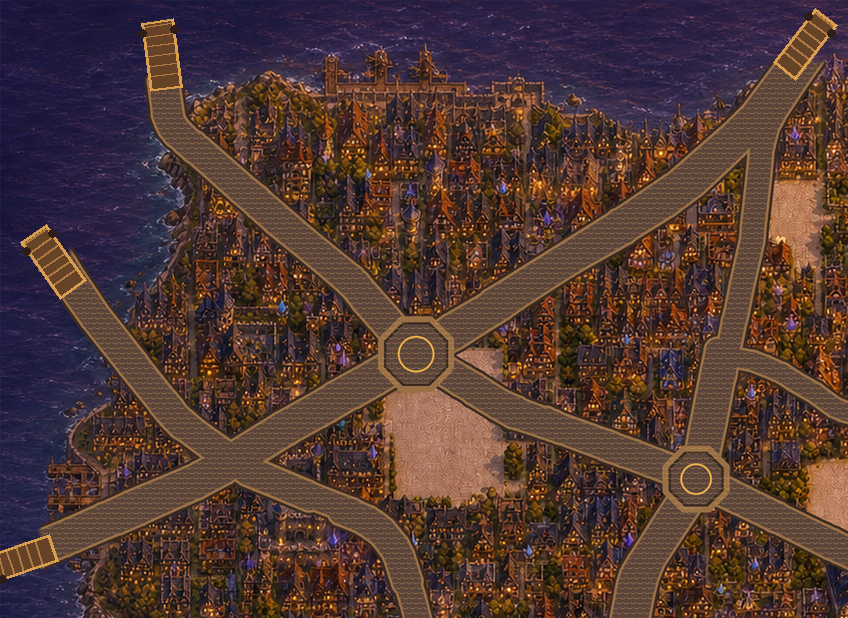
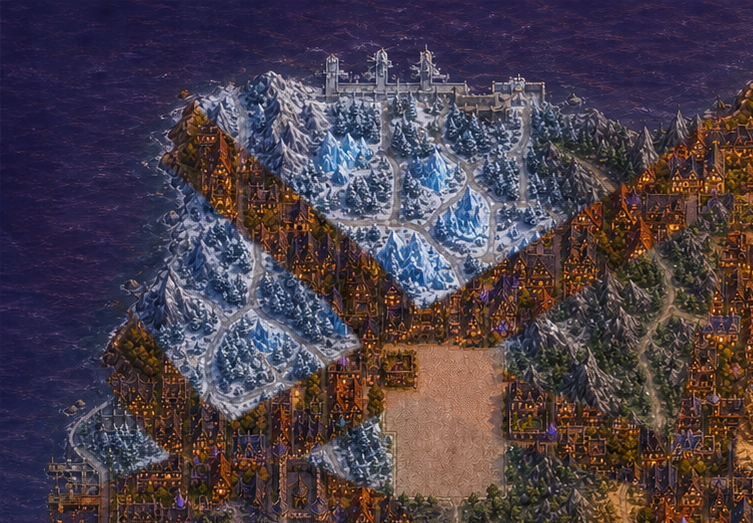
feat: expand past-world biomes and encounters

diff --git a/v2-past-story.js b/v2-past-story.js
@@ -150,8 +150,9 @@
       onComplete: 'crossroads-mission-start',
       lines: Object.freeze([
         Object.freeze({ speaker: 'アルディオン王', text: '見張り台で見つかった方位紋は、四つの街道が交わる交易都市クアドラの紋章でもある。' }),
-        Object.freeze({ speaker: 'アルディオン王', text: 'この数日、六本木の交差路にあたるあの街から、荷馬車も伝令も来なくなった。交通の要所が沈黙すれば国中が分断される。' }),
-        Object.freeze({ speaker: 'アルディオン王', text: '交差路の街へ向かい、街道が止まった原因を調べてほしい。父エルドも四門水路の古い地図を残している。' })
+        Object.freeze({ speaker: 'アルディオン王', text: 'この数日、大陸中央のあの街から荷馬車も伝令も来なくなった。交通の要所が沈黙すれば国中が分断される。' }),
+        Object.freeze({ speaker: 'アルディオン王', text: '道中では紫泥の沼、古樹の山林、霜降りの谷、黄砂の荒野、熔火の裂谷に異なる魔物が現れる。交差路の街へ向かい、街道が止まった原因を調べてほしい。' }),
+        Object.freeze({ speaker: 'アルディオン王', text: '父エルドも、街の地下にある四門水路の古い地図を残している。各地形に合う札を見極めて進むのだ。' })
       ])
     }),
     'crossroads-arrival': Object.freeze({
@@ -256,8 +257,8 @@
     Object.freeze({ id: 'capital-gate', area: 'overworld', point: PAST_START.capitalGatePoint, radius: 46, label: '王都ロプンギアへ入る', targetArea: 'castle-town', spawn: PAST_AREAS['castle-town'].spawn }),
     Object.freeze({ id: 'old-watchtower', area: 'overworld', point: Object.freeze([145, 515]), radius: 46, label: '古い見張り台を調べる', actionId: 'watchtower', unlockAfter: 'king-audience' }),
     Object.freeze({ id: 'road-mage', area: 'overworld', point: Object.freeze([205, 460]), radius: 34, label: '旅の魔導士と話す', actionId: 'learn-first-magic' }),
-    Object.freeze({ id: 'frost-card-chest', area: 'overworld', point: Object.freeze([245, 500]), radius: 28, label: '青い宝箱を開ける', actionId: 'discover-card:frost', cardId: 'frost', unlockAfter: 'watchtower-boss' }),
-    Object.freeze({ id: 'mend-card-chest', area: 'overworld', point: Object.freeze([90, 570]), radius: 28, label: '白い宝箱を開ける', actionId: 'discover-card:mend', cardId: 'mend', unlockAfter: 'watchtower-boss' }),
+    Object.freeze({ id: 'frost-card-chest', area: 'overworld', point: Object.freeze([58, 248]), radius: 28, label: '青い宝箱を開ける', actionId: 'discover-card:frost', cardId: 'frost', unlockAfter: 'watchtower-boss' }),
+    Object.freeze({ id: 'mend-card-chest', area: 'overworld', point: Object.freeze([108, 318]), radius: 28, label: '白い宝箱を開ける', actionId: 'discover-card:mend', cardId: 'mend', unlockAfter: 'watchtower-boss' }),
     Object.freeze({ id: 'crossroads-gate', area: 'overworld', point: Object.freeze([416, 354]), radius: 42, label: '交差路の街クアドラへ入る', targetArea: 'crossroads-town', spawn: PAST_AREAS['crossroads-town'].spawn, unlockAfter: 'first-mission-complete', dialogueOnEnter: 'crossroads-arrival' }),
     Object.freeze({ id: 'castle-door', area: 'castle-town', point: Object.freeze([700, 515]), radius: 72, label: '王城へ入る', targetArea: 'castle', spawn: PAST_AREAS.castle.spawn }),
     Object.freeze({ id: 'capital-exit', area: 'castle-town', point: Object.freeze([700, 950]), radius: 55, label: '新大陸の街道へ戻る', targetArea: 'overworld', spawn: PAST_START.capitalGatePoint }),

diff --git a/v2-past-world.js b/v2-past-world.js
@@ -3,23 +3,37 @@
   if (typeof module === 'object' && module.exports) module.exports = api;
   if (root) root.V2_PAST_WORLD = api;
 })(typeof globalThis !== 'undefined' ? globalThis : this, () => {
+  const PAST_BIOMES = Object.freeze([
+    Object.freeze({ id: 'coast', name: '潮風の海岸', center: Object.freeze([85, 530]) }),
+    Object.freeze({ id: 'poison-swamp', name: '紫泥の沼', center: Object.freeze([150, 485]) }),
+    Object.freeze({ id: 'mountain-forest', name: '古樹の山林', center: Object.freeze([225, 450]) }),
+    Object.freeze({ id: 'cold', name: '霜降りの谷', center: Object.freeze([285, 410]) }),
+    Object.freeze({ id: 'desert', name: '黄砂の荒野', center: Object.freeze([345, 385]) }),
+    Object.freeze({ id: 'lava', name: '熔火の裂谷', center: Object.freeze([400, 360]) })
+  ]);
   const PAST_ENCOUNTERS = Object.freeze([
     Object.freeze({
-      id: 'road-mist-east', chapter: 'west-road', enemyId: 'mist-slime', sprite: 'mist-slime.png', speed: 15,
+      id: 'road-mist-east', chapter: 'west-road', biome: 'coast', enemyId: 'mist-slime', sprite: 'mist-slime.png', speed: 15,
       patrol: Object.freeze([[286, 497], [271, 491], [258, 493]])
     }),
     Object.freeze({
-      id: 'road-mist-west', chapter: 'west-road', enemyId: 'mist-slime', sprite: 'mist-slime.png', speed: 16,
+      id: 'road-mist-west', chapter: 'west-road', biome: 'poison-swamp', enemyId: 'mist-slime', sprite: 'mist-slime.png', speed: 16,
       patrol: Object.freeze([[244, 493], [231, 497], [220, 502]])
     }),
     Object.freeze({
-      id: 'road-goblin', chapter: 'west-road', enemyId: 'gutter-goblin', sprite: 'gutter-goblin.png', speed: 18,
+      id: 'road-goblin', chapter: 'west-road', biome: 'mountain-forest', enemyId: 'gutter-goblin', sprite: 'gutter-goblin.png', speed: 18,
       patrol: Object.freeze([[205, 504], [194, 509], [184, 512]])
     }),
     Object.freeze({
-      id: 'road-wolf', chapter: 'west-road', enemyId: 'rune-wolf', sprite: 'rune-wolf.png', speed: 20,
+      id: 'road-wolf', chapter: 'west-road', biome: 'mountain-forest', enemyId: 'rune-wolf', sprite: 'rune-wolf.png', speed: 20,
       patrol: Object.freeze([[173, 509], [164, 513], [155, 516]])
-    })
+    }),
+    Object.freeze({ id: 'route-bog-mandrake', chapter: 'crossroads-route', biome: 'poison-swamp', enemyId: 'bog-mandrake', sprite: 'bog-mandrake.png', speed: 14, patrol: Object.freeze([[133, 492], [150, 485]]) }),
+    Object.freeze({ id: 'route-crag-harpy', chapter: 'crossroads-route', biome: 'mountain-forest', enemyId: 'crag-harpy', sprite: 'crag-harpy.png', speed: 21, patrol: Object.freeze([[225, 455], [240, 448], [254, 445]]) }),
+    Object.freeze({ id: 'route-frost-wisp', chapter: 'crossroads-route', biome: 'cold', enemyId: 'frost-wisp', sprite: 'frost-wisp.png', speed: 17, patrol: Object.freeze([[276, 420], [290, 411], [303, 407]]) }),
+    Object.freeze({ id: 'route-dune-scorpion', chapter: 'crossroads-route', biome: 'desert', enemyId: 'dune-scorpion', sprite: 'dune-scorpion.png', speed: 16, patrol: Object.freeze([[324, 398], [340, 391], [354, 386]]) }),
+    Object.freeze({ id: 'route-ember-lizard', chapter: 'crossroads-route', biome: 'lava', enemyId: 'ember-lizard', sprite: 'ember-lizard.png', speed: 19, patrol: Object.freeze([[365, 382], [379, 375], [391, 369]]) }),
+    Object.freeze({ id: 'route-ash-golem', chapter: 'crossroads-route', biome: 'lava', enemyId: 'ash-golem', sprite: 'ash-golem.png', speed: 12, patrol: Object.freeze([[393, 344], [405, 338], [416, 344]]) })
   ]);
 
   function createPastEnemies(scale = 1) {
@@ -83,6 +97,7 @@
   }
 
   return {
+    PAST_BIOMES,
     PAST_ENCOUNTERS,
     advancePatrol,
     createPastEnemies,

diff --git a/tests/v2-past-story.test.js b/tests/v2-past-story.test.js
@@ -149,7 +149,7 @@ test('defeating the watchtower boss completes the first investigation', () => {
   assert.equal(storyAllowsEncounters(complete), true);
 });
 
-test('the next royal audience opens the crossroads chapter at Roppongi Crossing', () => {
+test('the next royal audience opens the crossroads chapter without modern place names', () => {
   const completedFirstQuest = createPastStory({
     phase: 'first-mission-complete', royalRewardClaimed: true
   });
@@ -158,6 +158,17 @@ test('the next royal audience opens the crossroads chapter at Roppongi Crossing'
   const chapterTwo = completeStoryEvent(completedFirstQuest, 'crossroads-mission-start');
   assert.equal(chapterTwo.phase, 'second-mission');
   assert.match(storyObjective(chapterTwo), /交差路の街/);
+});
+
+test('past-edition dialogue and labels never reveal present-day place names', () => {
+  const visiblePastText = JSON.stringify({ STORY_DIALOGUES, PAST_INTERACTIONS, PAST_AREAS });
+  assert.doesNotMatch(visiblePastText, /六本木|東京|麻布|外苑|飯倉|赤坂|国道|都道|県道/);
+});
+
+test('overworld card chests reward a detour near the northwestern harbor', () => {
+  const chests = PAST_INTERACTIONS.filter(interaction => interaction.area === 'overworld' && interaction.actionId?.startsWith('discover-card:'));
+  assert.equal(chests.length, 2);
+  assert.ok(chests.every(chest => chest.point[0] < 150 && chest.point[1] < 360));
 });
 
 test('the traffic-hub town and dungeon form a reversible route', () => {
@@ -317,10 +328,9 @@ test('the traveling mage remains visible and talkable before and after teaching 
   assert.ok(overworldRenderer.indexOf('drawPastMagicTutor()') > overworldRenderer.indexOf('drawDepthSortedEntities()'), 'the mage should render above landmark art');
 });
 
-test('overworld people and event structures are rendered from raster assets', () => {
+test('overworld people and event structures except the capital gate are rendered from raster assets', () => {
   const runtime = fs.readFileSync('v2.js', 'utf8');
   for (const [start, end] of [
-    ['function drawPastCapitalGate', 'function drawPastWatchtower'],
     ['function drawPastWatchtower', 'function drawPastCardDiscoveries'],
     ['function drawPastCardDiscoveries', 'function drawPastMagicTutor'],
     ['function drawPastMagicTutor', 'function roundedRectanglePath']
@@ -331,12 +341,19 @@ test('overworld people and event structures are rendered from raster assets', ()
   }
 });
 
+test('the capital gate uses the original vector marker', () => {
+  const runtime = fs.readFileSync('v2.js', 'utf8');
+  const renderer = runtime.slice(runtime.indexOf('function drawPastCapitalGate'), runtime.indexOf('function drawPastCrossroadsGate'));
+  assert.match(renderer, /ctx\.arc/);
+  assert.doesNotMatch(renderer, /drawImage|pastEventImages/);
+});
+
 test('the capital marker stays visible while enemies wait for the royal mission', () => {
   const runtime = fs.readFileSync('v2.js', 'utf8');
   const gateRenderer = runtime.slice(runtime.indexOf('function drawPastCapitalGate'), runtime.indexOf('function drawPastWatchtower'));
   const enemyRenderer = runtime.slice(runtime.indexOf('function drawPastEnemies'), runtime.indexOf('function drawDepthSortedEntities'));
   assert.doesNotMatch(gateRenderer, /storyAllowsEncounters/);
-  assert.match(enemyRenderer, /storyAllowsEncounters/);
+  assert.doesNotMatch(enemyRenderer, /storyAllowsEncounters/);
 });
 
 test('defeated route enemies stay clear long enough to reach the watchtower', () => {

diff --git a/v2.js b/v2.js
@@ -260,6 +260,12 @@
     ['mist-slime', 'mist-slime.png'],
     ['gutter-goblin', 'gutter-goblin.png'],
     ['rune-wolf', 'rune-wolf.png'],
+    ['bog-mandrake', 'bog-mandrake.png'],
+    ['crag-harpy', 'crag-harpy.png'],
+    ['frost-wisp', 'frost-wisp.png'],
+    ['dune-scorpion', 'dune-scorpion.png'],
+    ['ember-lizard', 'ember-lizard.png'],
+    ['ash-golem', 'ash-golem.png'],
     ['mist-watcher', 'rune-wolf.png'],
     ['crossroads-sentinel', 'crossroads-sentinel.png']
   ];
@@ -1075,7 +1081,7 @@
       if (nearViewport) assetKeys.push(landmarkAssetKey(currentEdition, landmark.id));
     }
 
-    if (currentEdition === 'past' && storyAllowsEncounters(storyState)) {
+    if (currentEdition === 'past') {
       const enemyMargin = 320;
       for (const enemy of pastEnemies) {
         const nearViewport = enemy.active
@@ -1115,7 +1121,7 @@
         : (dy > 0 ? 'down' : 'up');
     }
 
-    if (currentEdition === 'past' && activeAreaId() === 'overworld' && storyAllowsEncounters(storyState)) {
+    if (currentEdition === 'past' && activeAreaId() === 'overworld') {
       const now = performance.now();
       pastEnemies = pastEnemies.map(enemy => {
         if (!enemy.active && now >= enemy.respawnAt) {
@@ -1294,14 +1300,22 @@
     if (currentEdition !== 'past' || activeAreaId() !== 'overworld') return;
     const x = PAST_START.capitalGatePoint[0] * maskScale;
     const y = PAST_START.capitalGatePoint[1] * maskScale;
-    const definition = PAST_EVENT_ASSETS['capital-gate'];
-    const image = pastEventImages.get('capital-gate');
-    if (!imageIsLoaded(image)) return;
     const pulse = 1 + Math.sin(performance.now() / 350) * 0.08;
     ctx.save();
     ctx.translate(x, y);
     ctx.scale(pulse, pulse);
-    ctx.drawImage(image, -definition.width / 2, -definition.height + 18, definition.width, definition.height);
+    ctx.fillStyle = '#210f1ddf';
+    ctx.strokeStyle = '#ffc15d';
+    ctx.lineWidth = 6;
+    ctx.beginPath();
+    ctx.arc(0, 0, 40, 0, Math.PI * 2);
+    ctx.fill();
+    ctx.stroke();
+    ctx.fillStyle = '#ffe3a2';
+    ctx.font = '34px Georgia, serif';
+    ctx.textAlign = 'center';
+    ctx.textBaseline = 'middle';
+    ctx.fillText('♜', 0, 1);
     roundedRectanglePath(ctx, -78, 48, 156, 35, 6);
     ctx.fillStyle = '#21131fe8';
     ctx.fill();
@@ -1578,7 +1592,7 @@
   }
 
   function drawPastEnemies() {
-    if (currentEdition !== 'past' || activeAreaId() !== 'overworld' || !storyAllowsEncounters(storyState)) return;
+    if (currentEdition !== 'past' || activeAreaId() !== 'overworld') return;
     const now = performance.now() / 1000;
     for (const enemy of pastEnemies) {
       if (!enemy.active) continue;

diff --git a/tests/v2-past-world.test.js b/tests/v2-past-world.test.js
@@ -4,6 +4,7 @@ const fs = require('node:fs');
 
 const {
   PAST_ENCOUNTERS,
+  PAST_BIOMES,
   advancePatrol,
   createPastEnemies,
   landmarkMemoryState,
@@ -14,7 +15,7 @@ const {
 
 test('past enemies have visible road patrol routes away from the starting point', () => {
   assert.ok(PAST_ENCOUNTERS.length >= 4);
-  assert.ok(PAST_ENCOUNTERS.every(enemy =>
+  assert.ok(PAST_ENCOUNTERS.filter(enemy => enemy.chapter === 'west-road').every(enemy =>
     enemy.patrol.length >= 2
     && enemy.patrol.every(([x, y]) => Math.hypot(x - 416, y - 354) >= 80)
   ));
@@ -25,9 +26,17 @@ test('the opening encounters form one west-road route between the capital and ol
   assert.ok(PAST_ENCOUNTERS.filter(enemy => enemy.chapter === 'west-road').every(enemy => enemy.patrol[0][0] < 310));
 });
 
+test('the route to the crossroads crosses distinct fantasy biomes with expanded fauna', () => {
+  assert.ok(PAST_BIOMES.length >= 5);
+  assert.deepEqual(new Set(PAST_BIOMES.map(biome => biome.id)), new Set(['coast', 'poison-swamp', 'mountain-forest', 'cold', 'desert', 'lava']));
+  assert.ok(new Set(PAST_ENCOUNTERS.map(enemy => enemy.enemyId)).size >= 9);
+  assert.ok(PAST_ENCOUNTERS.every(enemy => PAST_BIOMES.some(biome => biome.id === enemy.biome)));
+  assert.ok(PAST_ENCOUNTERS.some(enemy => enemy.chapter === 'crossroads-route'));
+});
+
 test('overworld actors and movement are reduced to half scale', () => {
   const runtime = fs.readFileSync('v2.js', 'utf8');
-  assert.deepEqual(PAST_ENCOUNTERS.map(enemy => enemy.speed), [15, 16, 18, 20]);
+  assert.deepEqual(PAST_ENCOUNTERS.filter(enemy => enemy.chapter === 'west-road').map(enemy => enemy.speed), [15, 16, 18, 20]);
   assert.match(runtime, /footRadius:\s*6/);
   assert.match(runtime, /speed:\s*190/);
   assert.match(runtime, /const displayHeight = 48/);

diff --git a/v2-battle.js b/v2-battle.js
@@ -22,6 +22,12 @@
     'mist-slime': Object.freeze({ id: 'mist-slime', name: '宵霧のスライム', maxHp: 26, attack: 9, gold: 8, xp: 12, intent: '体当たり', weakness: 'fire' }),
     'gutter-goblin': Object.freeze({ id: 'gutter-goblin', name: '石路のゴブリン', maxHp: 34, attack: 11, gold: 12, xp: 18, intent: '錆びた短剣', weakness: 'ice' }),
     'rune-wolf': Object.freeze({ id: 'rune-wolf', name: '刻印の魔狼', maxHp: 40, attack: 13, gold: 18, xp: 24, intent: '飛びかかる', weakness: 'ice' }),
+    'bog-mandrake': Object.freeze({ id: 'bog-mandrake', name: '沼根のマンドラゴラ', maxHp: 31, attack: 10, gold: 11, xp: 16, intent: '毒根の鞭', weakness: 'fire' }),
+    'crag-harpy': Object.freeze({ id: 'crag-harpy', name: '岩峰のハーピー', maxHp: 37, attack: 12, gold: 15, xp: 21, intent: '裂風の爪' }),
+    'frost-wisp': Object.freeze({ id: 'frost-wisp', name: '霜灯のウィスプ', maxHp: 35, attack: 12, gold: 16, xp: 22, intent: '凍える灯', weakness: 'fire' }),
+    'dune-scorpion': Object.freeze({ id: 'dune-scorpion', name: '砂鎧のサソリ', maxHp: 43, attack: 13, gold: 19, xp: 25, intent: '砂針' }),
+    'ember-lizard': Object.freeze({ id: 'ember-lizard', name: '熾火トカゲ', maxHp: 46, attack: 14, gold: 21, xp: 28, intent: '火の尾', weakness: 'ice' }),
+    'ash-golem': Object.freeze({ id: 'ash-golem', name: '灰岩のゴーレム', maxHp: 55, attack: 15, gold: 25, xp: 34, intent: '岩塊の拳', weakness: 'ice' }),
     'mist-watcher': Object.freeze({
       id: 'mist-watcher', name: '紫霧の番人', maxHp: 70, attack: 8, gold: 120, xp: 80,
       intent: '紫霧の爪', weakness: 'fire', boss: true,

diff --git a/tests/v2-past-campaign.test.js b/tests/v2-past-campaign.test.js
@@ -192,7 +192,8 @@ test('experience remaining is calculated from the next level threshold', () => {
 
 test('four western-road victories reach level two and the boss reward reaches level three', () => {
   let campaign = reachWatchtower(createPastCampaign());
-  for (const encounter of PAST_ENCOUNTERS) {
+  const firstQuestEncounters = PAST_ENCOUNTERS.filter(encounter => encounter.chapter === 'west-road');
+  for (const encounter of firstQuestEncounters) {
     campaign = applyBattleVictory(campaign, {
       xp: ENEMY_LIBRARY[encounter.enemyId].xp,
       playerHp: 30,
@@ -254,7 +255,8 @@ test('the complete recommended first-quest route reaches level three after the m
     gold = purchase.gold;
   }
 
-  for (const [index, encounter] of PAST_ENCOUNTERS.entries()) {
+  const firstQuestEncounters = PAST_ENCOUNTERS.filter(encounter => encounter.chapter === 'west-road');
+  for (const [index, encounter] of firstQuestEncounters.entries()) {
     const result = slashUntilBattleEnds(battleProfile(campaign), 20, encounter.enemyId);
     assert.equal(result.status, 'victory', `${encounter.enemyId} should be beatable with the recommended gear`);
     campaign = applyBattleVictory(campaign, {

diff --git a/tools/build-v2-past-biomes.py b/tools/build-v2-past-biomes.py
@@ -1,0 +1,78 @@
+from pathlib import Path
+
+from PIL import Image, ImageFilter
+
+
+ROOT = Path(__file__).resolve().parent.parent
+ASSETS = ROOT / "assets" / "v2"
+GENERATED = Path(r"C:\Users\ShinichiroMotomatu\.codex\generated_images\019fda35-90a3-7903-bfb1-31deeabd2ab7")
+TERRAIN = GENERATED / "exec-0269dd9f-4ac8-435b-9ab8-ed0360b99b4a.png"
+SPRITES = GENERATED / "exec-78419840-0a11-42a4-b2d9-7725cd8adc55.png"
+SOURCE = ASSETS / "roppongi-city-blocks-past-evening-island-source.png"
+VERSIONED = ASSETS / "roppongi-city-blocks-past-evening-biomes-source.png"
+MASK = ASSETS / "road-collision-mask.png"
+
+
+def build_map() -> None:
+    original = Image.open(SOURCE).convert("RGB")
+    terrain = Image.open(TERRAIN).convert("RGB").resize(original.size, Image.Resampling.LANCZOS)
+    # Restore the exact original road surface and shoulders. The generated art only supplies terrain.
+    roads = Image.open(MASK).convert("L").resize(original.size, Image.Resampling.NEAREST)
+    roads = roads.filter(ImageFilter.MaxFilter(31)).filter(ImageFilter.GaussianBlur(2))
+    composed = Image.composite(original, terrain, roads)
+    composed.save(VERSIONED, optimize=True)
+    composed.save(SOURCE, optimize=True)
+
+    source_dir = ASSETS / "past-evening-source-tiles"
+    runtime_dir = ASSETS / "past-evening-runtime-tiles"
+    source_dir.mkdir(exist_ok=True)
+    runtime_dir.mkdir(exist_ok=True)
+    width, height = composed.size
+    x_edges = [0, (width + 1) // 2, width]
+    y_edges = [0, (height + 1) // 2, height]
+    for row in range(2):
+        for col in range(2):
+            tile = composed.crop((x_edges[col], y_edges[row], x_edges[col + 1], y_edges[row + 1]))
+            tile.save(source_dir / f"{col}-{row}.png", optimize=True)
+            runtime = tile.resize((tile.width * 4, tile.height * 4), Image.Resampling.LANCZOS)
+            runtime.save(runtime_dir / f"{col}-{row}.png", optimize=True)
+
+
+def build_monsters() -> None:
+    sheet = Image.open(SPRITES).convert("RGB")
+    names = ["bog-mandrake", "crag-harpy", "frost-wisp", "dune-scorpion", "ember-lizard", "ash-golem"]
+    target = ASSETS / "past-enemies"
+    target.mkdir(exist_ok=True)
+    cell_w, cell_h = sheet.width // 3, sheet.height // 2
+    for index, name in enumerate(names):
+        col, row = index % 3, index // 3
+        crop = sheet.crop((col * cell_w, row * cell_h, (col + 1) * cell_w, (row + 1) * cell_h)).convert("RGBA")
+        # The artwork includes a soft atmospheric field; fade it at the cell edge for clean map compositing.
+        alpha = Image.new("L", crop.size)
+        pixels = alpha.load()
+        rgb = crop.load()
+        corners = [rgb[4, 4][:3], rgb[cell_w - 5, 4][:3], rgb[4, cell_h - 5][:3], rgb[cell_w - 5, cell_h - 5][:3]]
+        for y in range(cell_h):
+            for x in range(cell_w):
+                nx = abs((x + .5) / cell_w * 2 - 1)
+                ny = abs((y + .5) / cell_h * 2 - 1)
+                edge = max(nx, ny)
+                tx, ty = x / max(1, cell_w - 1), y / max(1, cell_h - 1)
+                background = tuple(
+                    corners[0][channel] * (1 - tx) * (1 - ty)
+                    + corners[1][channel] * tx * (1 - ty)
+                    + corners[2][channel] * (1 - tx) * ty
+                    + corners[3][channel] * tx * ty
+                    for channel in range(3)
+                )
+                distance = sum((rgb[x, y][channel] - background[channel]) ** 2 for channel in range(3)) ** .5
+                subject = max(0, min(1, (distance - 18) / 42))
+                edge_fade = max(0, min(1, (1 - edge) / .13))
+                pixels[x, y] = round(255 * subject * edge_fade)
+        crop.putalpha(alpha)
+        crop.save(target / f"{name}.png", optimize=True)
+
+
+if __name__ == "__main__":
+    build_map()
+    build_monsters()

diff --git a/tools/validate-v2-assets.py b/tools/validate-v2-assets.py
@@ -163,7 +163,7 @@ def validate_past_assets() -> None:
         alpha = enemy.getchannel("A")
         assert alpha.getbbox() is not None
         assert alpha.getpixel((0, 0)) == 0
-    print("past edition: island map, ports, memory fog, 3 enemy sprites / 4 road encounters / 1 tinted mid-boss, 6 fantasy landmarks")
+    print("past edition: island map, 6 biomes, ports, memory fog, 9 enemy species / 10 road encounters / 2 bosses, 6 fantasy landmarks")
 
 
 if __name__ == "__main__":
